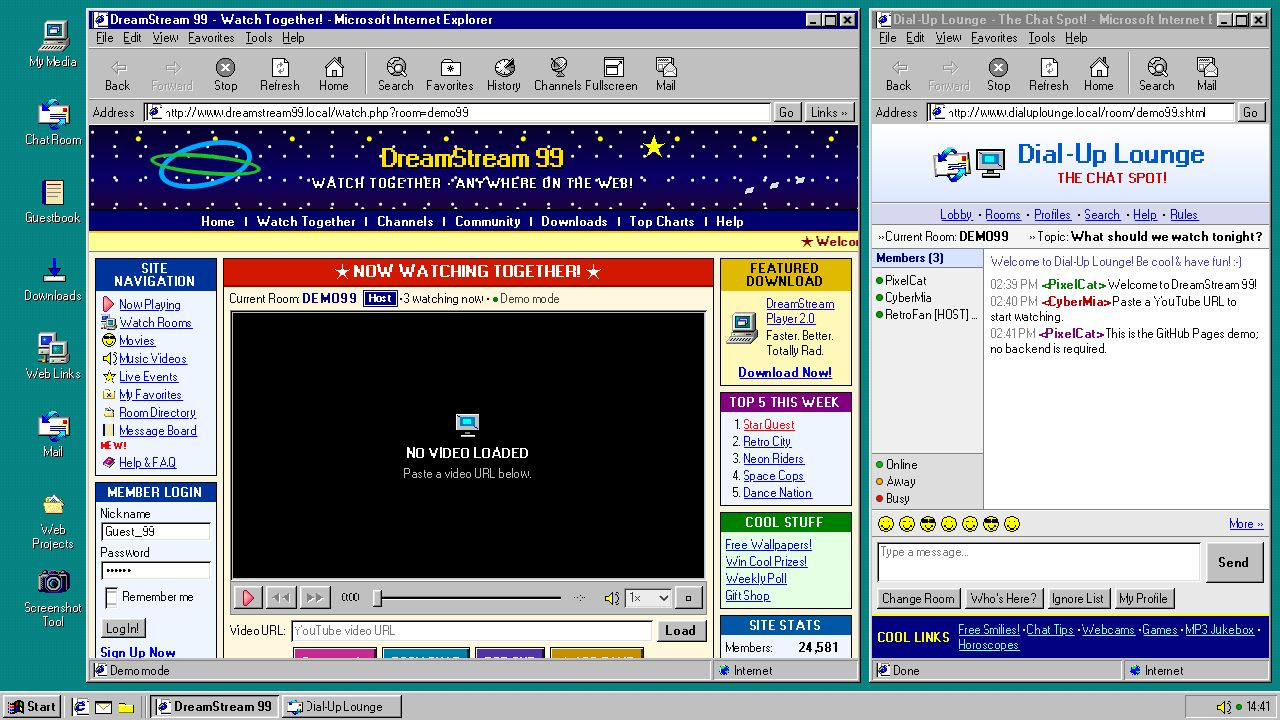
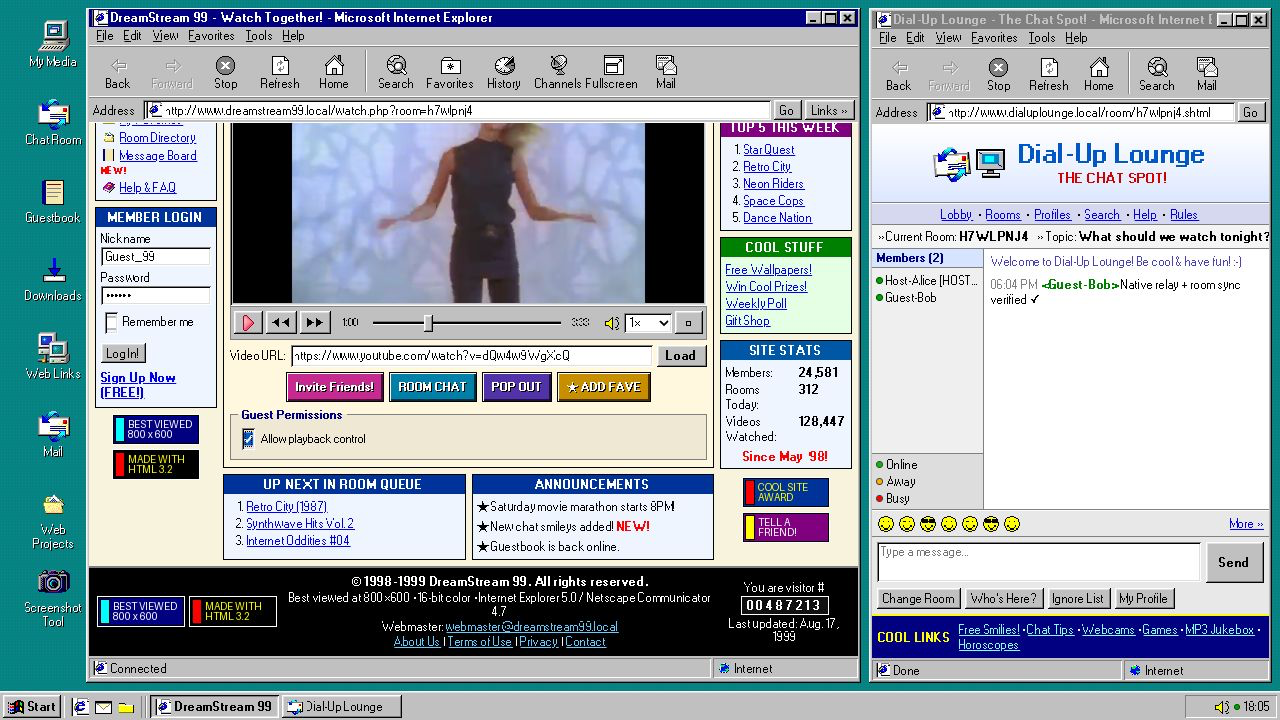
Complete live browser validation

diff --git a/tests/deploy-config.test.js b/tests/deploy-config.test.js
@@ -33,6 +33,14 @@ test('Caddy rejects missing or foreign Origins before any proxy or fallback', as
     assert.ok(missing > foreign && missing < control, `${filename} missing Origin order`);
     assert.ok(control < media && media < fallback, `${filename} proxy/fallback order`);
     assert.doesNotMatch(caddy, /^\s*log\s*\{/m);
+
+    const proxyBlocks = [...caddy.matchAll(/reverse_proxy[^\{]+\{([\s\S]*?)\n\s*\}/g)];
+    assert.equal(proxyBlocks.length, 2, `${filename} must define both production proxies`);
+    for (const [, proxyBlock] of proxyBlocks) {
+      assert.match(proxyBlock, /header_down -Access-Control-Allow-Origin/);
+      assert.match(proxyBlock, /header_down -Access-Control-Expose-Headers/);
+      assert.match(proxyBlock, /header_down -Vary/);
+    }
   }
 });
 
